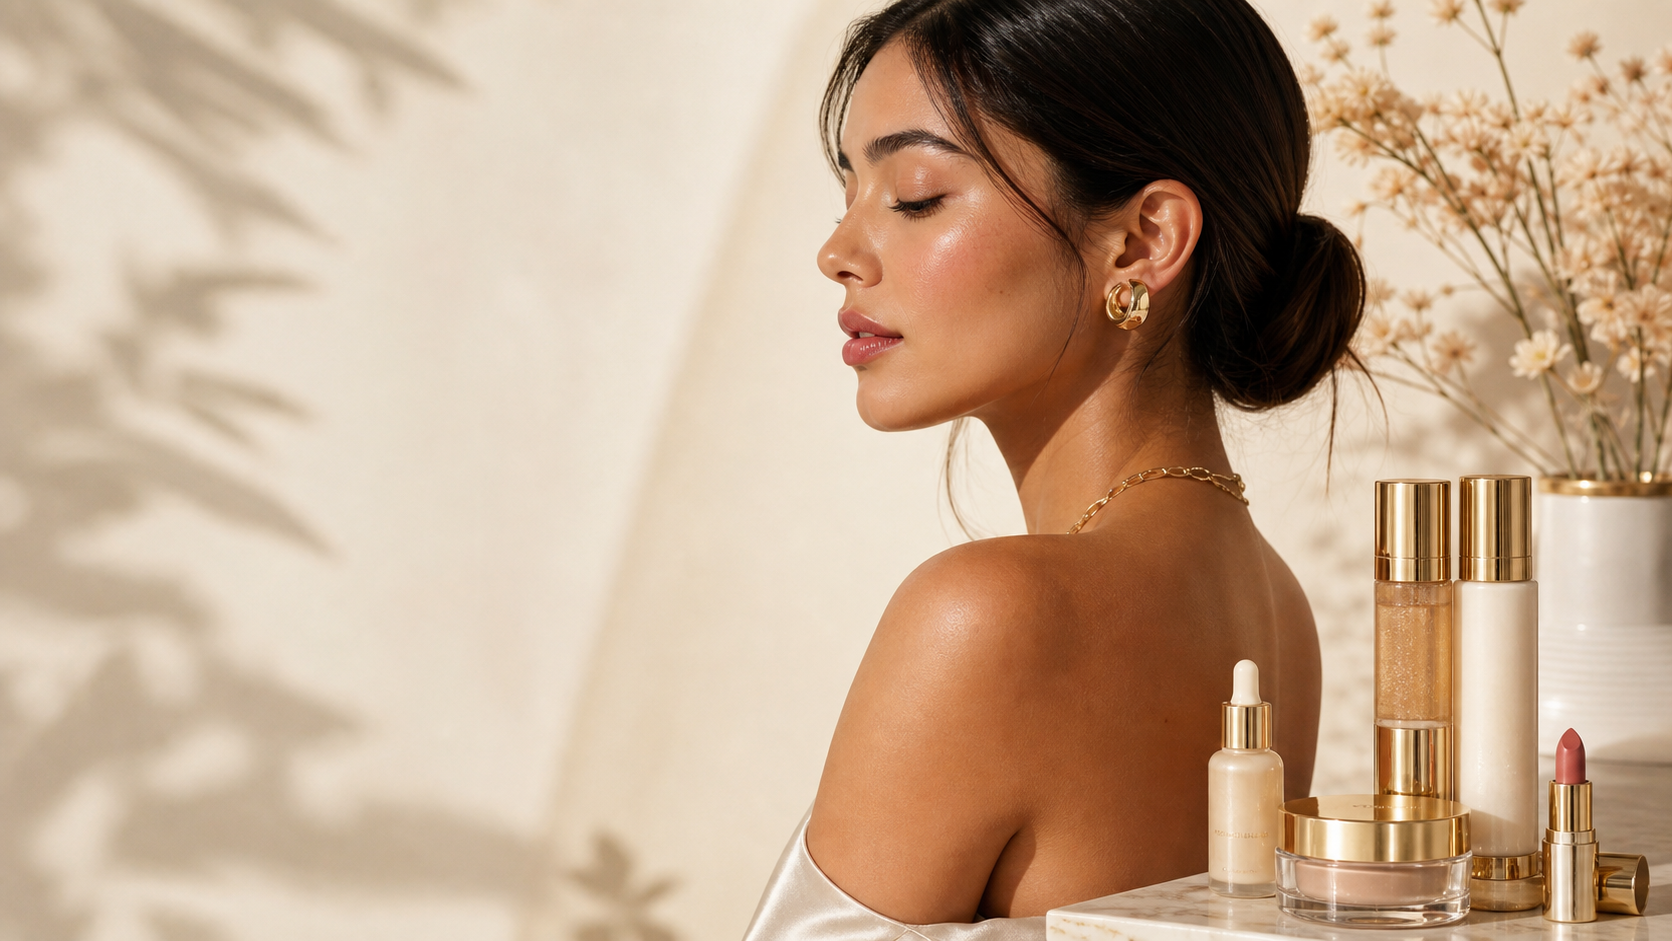
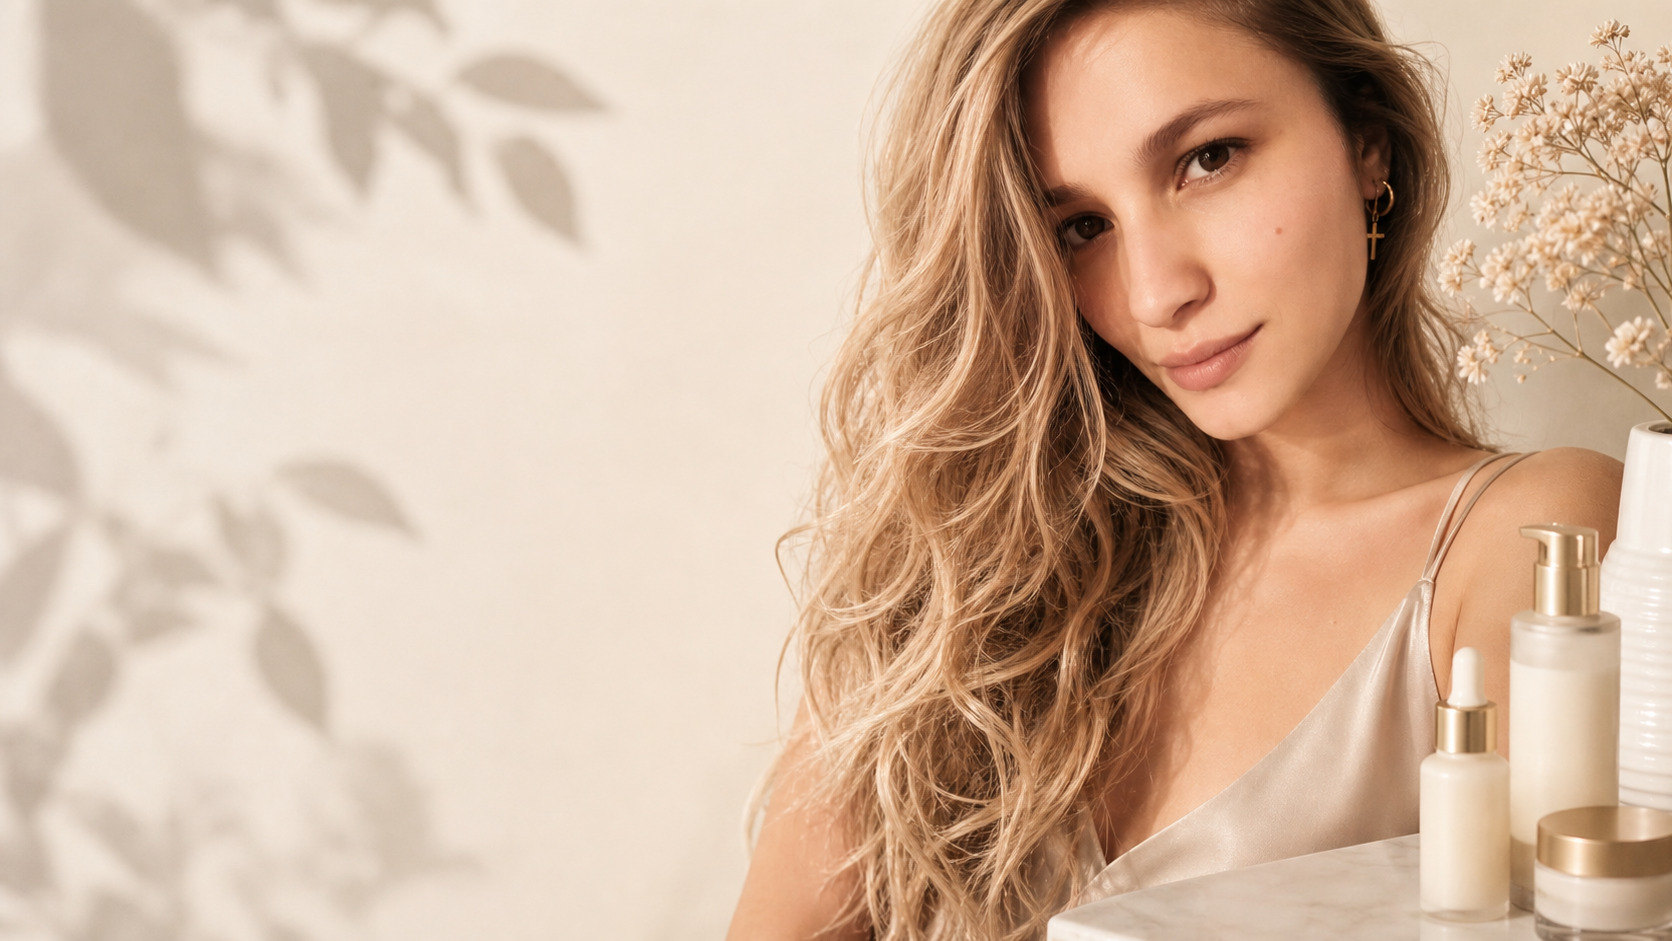
feat: feature Sofia Victoria in Victoriosa hero

diff --git a/src/app/page.tsx b/src/app/page.tsx
@@ -15,12 +15,13 @@ export default async function HomePage() {
           <p className="eyebrow">RITUALES DE BELLEZA</p>
           <h1>Tu belleza.<br />Tu momento.</h1>
           <p>Una seleccion curada para rostro, cuerpo y bienestar. Elegi con confianza y recibi orientacion cercana.</p>
+          <p className="founder-signature">Inspirada por Sofia Victoria, fundadora de Victoriosa.</p>
           <div className="hero-actions">
             <Link className="editorial-button" href="/productos">Descubrir</Link>
             <Link className="editorial-link" href="/evaluacion-online">Agendar evaluacion</Link>
           </div>
         </div>
-        <Image alt="Editorial Victoriosa de belleza y cuidado personal" className="hero-image" height={1024} priority src="/victoriosa-hero-editorial.png" width={1792} />
+        <Image alt="Sofia Victoria, fundadora de Victoriosa" className="hero-image" height={1024} priority src="/victoriosa-hero-editorial.png" width={1792} />
       </section>
       <section className="container-page editorial-section">
         <p className="eyebrow">SELECCION VICTORIOSA</p>

diff --git a/src/app/globals.css b/src/app/globals.css
@@ -39,6 +39,7 @@ a { color: inherit; text-decoration: none; }
 .eyebrow { margin:0 0 16px; font-size:12px; font-weight:700; letter-spacing:.2em; }
 .hero-copy h1 { margin:0; font-family:Georgia, serif; font-size:clamp(54px, 6vw, 86px); font-weight:400; line-height:.96; }
 .hero-copy p:not(.eyebrow) { max-width:520px; margin:24px 0; font-size:17px; line-height:1.7; }
+.hero-copy .founder-signature { margin-top:-8px; color:#8b665d; font-family:Georgia, serif; font-size:15px; font-style:italic; }
 .hero-actions { display:flex; align-items:center; gap:22px; flex-wrap:wrap; }
 .editorial-button { border:1px solid #241918; padding:14px 28px; font-size:12px; font-weight:700; letter-spacing:.14em; text-transform:uppercase; }
 .editorial-link { border-bottom:1px solid #241918; padding-bottom:4px; font-size:12px; font-weight:700; letter-spacing:.12em; text-transform:uppercase; }

diff --git a/docs/autonomous-cycles/CYCLE_VICTORIOSA_021_SOFIA_VICTORIA_BRAND_HERO.md b/docs/autonomous-cycles/CYCLE_VICTORIOSA_021_SOFIA_VICTORIA_BRAND_HERO.md
@@ -1,0 +1,25 @@
+# Cycle Victoriosa 021
+
+## Mode
+
+`VICTORIOSA_SOFIA_VICTORIA_BRAND_HERO`
+
+## Result
+
+- Replaced the generic editorial hero with an original Victoriosa composition
+  based on the founder-provided portrait of Sofia Victoria.
+- Preserved a natural premium beauty treatment with left-side headline space.
+- Added a discreet founder signature and descriptive image alternative text.
+
+## Safety
+
+`PRODUCTION_STATUS=NO-GO_PRODUCTION`
+
+- No production deployment or promotion.
+- No Production environment mutation.
+- No payments, external emails or supplier actions.
+- No secrets exposed.
+
+## Next Mode
+
+`VICTORIOSA_STAGING_AUTHENTICATED_ACCOUNT_SMOKE`

diff --git a/docs/VICTORIOSA_DIRECTOR_STATUS.md b/docs/VICTORIOSA_DIRECTOR_STATUS.md
@@ -109,6 +109,8 @@
 
 - Explicit Preview deployment: PASS, `target=preview`.
 - Protected Preview anonymous boundary: PASS, HTTP `401`.
+- Cycle 021 completed: founder-provided Sofia Victoria portrait integrated as
+  an original premium Victoriosa hero with natural editorial retouch.
 - Protected Preview route smoke:
   CHECK_NOT_RUN_BLOCKED_EXTERNAL_CREDENTIALS because no project-specific
   automation bypass is available.

diff --git a/docs/EXPRESSJOBS_DIRECTOR_STATUS.md b/docs/EXPRESSJOBS_DIRECTOR_STATUS.md
@@ -12,6 +12,7 @@ Canonical status: `docs/VICTORIOSA_DIRECTOR_STATUS.md`
 ## Status
 
 - `PRODUCTION_STATUS=NO-GO_PRODUCTION`
+- Founder hero: PASS, Sofia Victoria original editorial integration
 - Build: PASS
 - Staging migration apply: PASS, four reviewed migrations
 - Structural RLS audit: PASS